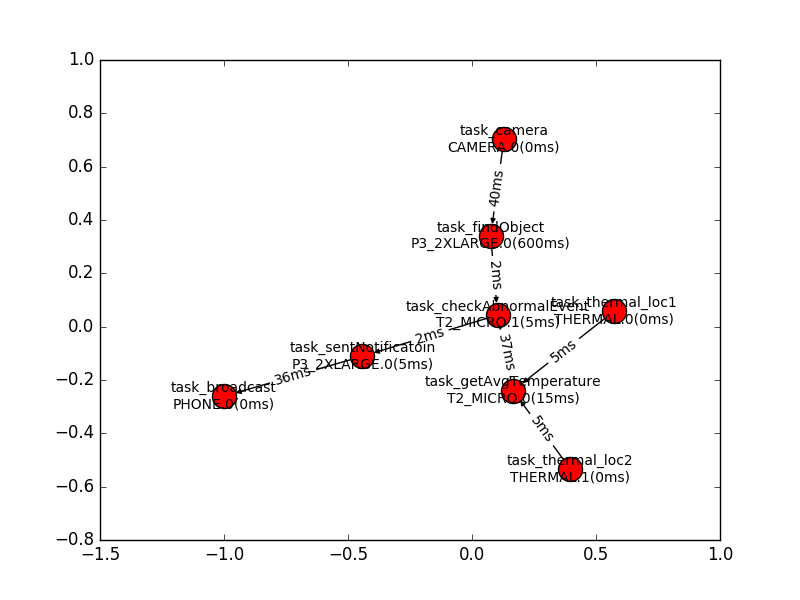
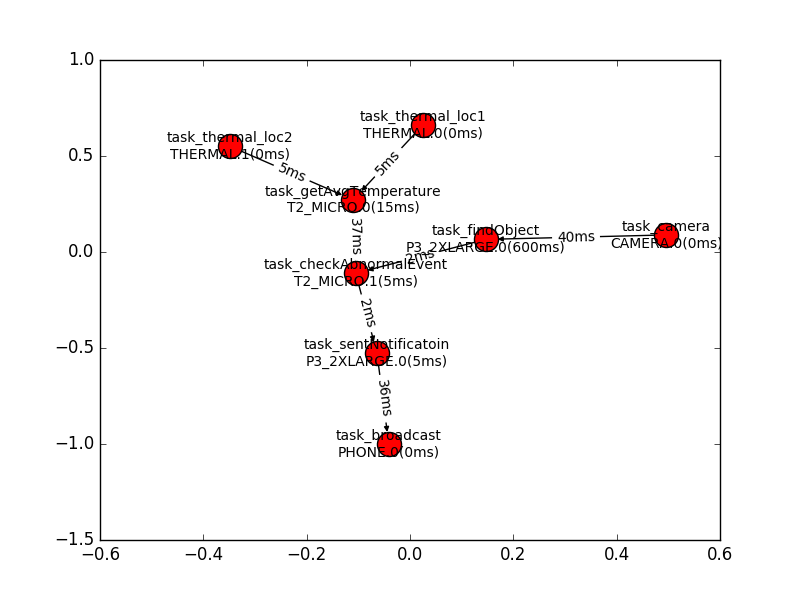
clean up

diff --git a/placethings/graph_gen/task_graph.py b/placethings/graph_gen/task_graph.py
@@ -4,11 +4,12 @@ from __future__ import print_function
 from __future__ import unicode_literals
 
 from copy import deepcopy
-from future.utils import iteritems
+from future.utils import listvalues, iteritems
 import logging
 
 from placethings.config import task_data
-from placethings.definition import GtInfo
+from placethings.config.common import LinkHelper
+from placethings.definition import GtInfo, GdInfo
 from placethings.graph_gen.graph_utils import GraphGen, FileHelper
 
 
@@ -55,3 +56,57 @@ def create_default_graph(is_export=False):
 def create_graph_from_file(filepath, is_export=False):
     task_mapping, task_links, task_info = task_data.import_data(filepath)
     return create_graph(task_mapping, task_links, task_info, is_export)
+
+
+def _gen_update_info(result_mapping, Gt, Gd):
+    node_info = {}
+    for task, device in iteritems(result_mapping):
+        if Gt.node[task][GtInfo.DEVICE]:
+            assert device == Gt.node[task][GtInfo.DEVICE]
+        Gt.node[task][GtInfo.DEVICE] = device
+        device_type = Gd.node[device][GdInfo.DEVICE_TYPE]
+        latency_info = Gt.node[task][GtInfo.LATENCY_INFO]
+        compute_latency = 0 if not latency_info else (
+            listvalues(latency_info[device_type])[0])
+        node_info[task] = {
+            GtInfo.CUR_DEVICE: device,
+            GtInfo.CUR_LATENCY: compute_latency,
+        }
+    edge_info = {}
+    for edge in Gt.edges():
+        t1, t2 = edge
+        d1 = node_info[t1][GtInfo.CUR_DEVICE]
+        d2 = node_info[t2][GtInfo.CUR_DEVICE]
+        transmission_latency = Gd[d1][d2][GdInfo.LATENCY]
+        edge_info[LinkHelper.get_edge(t1, t2)] = {
+            GtInfo.CUR_LATENCY: transmission_latency,
+        }
+    return node_info, edge_info
+
+
+def _gen_graph_labels(Gt):
+    node_labels = {}
+    for task in Gt.nodes():
+        node_labels[task] = '{}\n{}({}ms)'.format(
+            task,
+            Gt.node[task][GtInfo.CUR_DEVICE],
+            Gt.node[task][GtInfo.CUR_LATENCY])
+    edge_labels = {}
+    for edge in Gt.edges():
+        t1, t2 = edge
+        transmission_latency = Gt[t1][t2][GtInfo.CUR_LATENCY]
+        edge_labels[edge] = '{}ms'.format(transmission_latency)
+    return node_labels, edge_labels
+
+
+def update_graph(result_mapping, Gt, Gd, is_export):
+    node_info, edge_info = _gen_update_info(result_mapping, Gt, Gd)
+    Gt = GraphGen.update(node_info, edge_info, Gt)
+    if is_export:
+        node_labels, edge_labels = _gen_graph_labels(Gt)
+        FileHelper.export_graph(
+            Gt, 'task_graph_update',
+            with_edge=True, edge_label_dict=edge_labels,
+            node_label_dict=node_labels)
+        FileHelper.export_data(node_info, edge_info, 'task_graph_update')
+    return Gt

diff --git a/placethings/ilp_solver.py b/placethings/ilp_solver.py
@@ -5,14 +5,14 @@ from __future__ import unicode_literals
 
 from builtins import range
 from collections import defaultdict
-from future.utils import listvalues, iteritems
+from future.utils import listvalues
 import logging
 from itertools import izip as zip
 import pulp
 import networkx as nx
 
 from placethings.definition import Const, GdInfo, GtInfo, Hardware
-from placethings.graph_gen.graph_utils import FileHelper
+from placethings.graph_gen import task_graph
 
 
 log = logging.getLogger()
@@ -420,7 +420,7 @@ def _get_path_length(path, Gt, Gd, result_mapping):
     return path_length
 
 
-def place_things(target_latency, Gt, Gd):
+def place_things(target_latency, Gt, Gd, is_export):
     status, result_mapping = _solver(target_latency, Gt, Gd)
     log.info('solver status: {}'.format(pulp.LpStatus[status]))
     assert status == pulp.constants.LpStatusOptimal
@@ -432,24 +432,5 @@ def place_things(target_latency, Gt, Gd):
         max_latency = max(path_length, max_latency)
     log.info('max_latency={}'.format(max_latency))
     # update mapping and gen node labels
-    node_labels = {}
-    for task, device in iteritems(result_mapping):
-        if Gt.node[task][GtInfo.DEVICE]:
-            assert device == Gt.node[task][GtInfo.DEVICE]
-        Gt.node[task][GtInfo.DEVICE] = device
-        device_type = Gd.node[device][GdInfo.DEVICE_TYPE]
-        compute_latency = 0
-        latency_info = Gt.node[task][GtInfo.LATENCY_INFO]
-        if latency_info:
-            compute_latency = listvalues(latency_info[device_type])[0]
-        node_labels[task] = '{}\n{}({}ms)'.format(
-            task, device, compute_latency)
-    edge_labels = {}
-    for edge in Gt.edges():
-        t1, t2 = edge
-        d1, d2 = Gt.node[t1][GtInfo.DEVICE], Gt.node[t2][GtInfo.DEVICE]
-        transmission_latency = Gd[d1][d2][GdInfo.LATENCY]
-        edge_labels[edge] = '{}ms'.format(transmission_latency)
-    FileHelper.export_graph(
-        Gt, 'result', with_edge=True,
-        edge_label_dict=edge_labels, node_label_dict=node_labels)
+    Gt = task_graph.update_graph(result_mapping, Gt, Gd, is_export)
+    return Gt

diff --git a/placethings/config/spec_def.py b/placethings/config/spec_def.py
@@ -6,7 +6,6 @@ from __future__ import unicode_literals
 from placethings.definition import (
     Const, Device, DeviceCategory, GdInfo, Hardware, LinkInfo, LinkType,
     NwDevice, NwDeviceCategory, NwLink, Unit)
-from placethings.utils import common_utils, json_utils
 
 
 NW_DEVICE_SPEC = {
@@ -49,7 +48,7 @@ NW_DEVICE_SPEC = {
                 LinkInfo.DLINK_BW: Const.INT_MAX,
             },
         },
-        NwDevice.BASESTATION: {
+        NwDevice.BB_AP: {
             LinkType.WAN: {
                 LinkInfo.PROTOCOL: NwLink.ETHERNET,
                 LinkInfo.N_LINKS: 1,
@@ -57,7 +56,7 @@ NW_DEVICE_SPEC = {
                 LinkInfo.DLINK_BW: Const.INT_MAX,
             },
             LinkType.LAN: {
-                LinkInfo.PROTOCOL: NwLink.LTE_CAT4,
+                LinkInfo.PROTOCOL: NwLink.WIFI,
                 LinkInfo.N_LINKS: Const.INT_MAX,
                 LinkInfo.ULINK_BW: Unit.mbps(150),
                 LinkInfo.DLINK_BW: Unit.mbps(50),
@@ -89,7 +88,7 @@ DEVICE_SPEC = {
             GdInfo.COST: Unit.rph(0),
             GdInfo.HARDWARE: {},
             GdInfo.NIC: {
-                LinkInfo.PROTOCOL: NwLink.LTE_CAT4,
+                LinkInfo.PROTOCOL: NwLink.WIFI,
                 LinkInfo.N_LINKS: 1,
                 LinkInfo.ULINK_BW: Unit.mbps(50),
                 LinkInfo.DLINK_BW: Unit.mbps(150),

diff --git a/placethings/config/default_def.py b/placethings/config/default_def.py
@@ -15,7 +15,7 @@ NW_DEVICE_INVENTORY = {
     },
     NwDeviceCategory.BACKBONE: {
         NwDevice.BB_SWITCH: 1,
-        NwDevice.BASESTATION: 1,
+        NwDevice.BB_AP: 1,
     },
     NwDeviceCategory.CLOUD: {
         NwDevice.CLOUD_SWITCH: 1,
@@ -45,12 +45,12 @@ NW_LINKS = {
         GnInfo.DST_LINK_TYPE: LinkType.WAN,
         GnInfo.LATENCY: Unit.ms(20),
     },
-    'BASESTATION.0 -> BB_SWITCH.0': {
+    'BB_AP.0 -> BB_SWITCH.0': {
         GnInfo.SRC_LINK_TYPE: LinkType.WAN,
         GnInfo.DST_LINK_TYPE: LinkType.ANY,
         GnInfo.LATENCY: Unit.ms(10),
     },
-    'BB_SWITCH.0 -> BASESTATION.0': {
+    'BB_SWITCH.0 -> BB_AP.0': {
         GnInfo.SRC_LINK_TYPE: LinkType.ANY,
         GnInfo.DST_LINK_TYPE: LinkType.WAN,
         GnInfo.LATENCY: Unit.ms(10),
@@ -125,10 +125,10 @@ DEVICE_LINKS = {
     'CLOUD_SWITCH.0 -> P3_2XLARGE.0': {
         GnInfo.LATENCY: Unit.ms(1),
     },
-    'PHONE.0 -> BASESTATION.0': {
+    'PHONE.0 -> BB_AP.0': {
         GnInfo.LATENCY: Unit.ms(10),
     },
-    'BASESTATION.0 -> PHONE.0': {
+    'BB_AP.0 -> PHONE.0': {
         GnInfo.LATENCY: Unit.ms(10),
     },
 }

diff --git a/placethings/graph_gen/graph_utils.py b/placethings/graph_gen/graph_utils.py
@@ -36,13 +36,26 @@ class GraphGen(object):
             base_graph.add_edge(src_node, dst_node, **attr)
         return base_graph
 
+    @classmethod
+    def update(cls, node_info, edge_info, base_graph):
+        """
+        Args:
+            task_info (dict)
+            edge_info (dict)
+            graph (networkx.DiGraph): the base graph to add nodes / edges
+        Returns:
+            graph (networkx.DiGraph)
+        """
+        assert base_graph is not None
+        return cls.create(node_info, edge_info, base_graph=base_graph)
+
 
 class FileHelper(object):
     _FILES = {
         'topo_graph',
         'device_graph',
         'task_graph',
-        'result',
+        'task_graph_update',
     }
     OUTPUT_FOLDER = 'output'
 

diff --git a/placethings/definition.py b/placethings/definition.py
@@ -37,7 +37,6 @@ class Const:
 class NwLink(Enum):
     ETHERNET = auto()
     WIFI = auto()
-    LTE_CAT4 = auto()
 
 
 class LinkInfo(Enum):
@@ -59,7 +58,7 @@ class NwDevice(Enum):
     HOME_IOTGW = auto()
     # backbone
     BB_SWITCH = auto()
-    BASESTATION = auto()
+    BB_AP = auto()
     # third_party
     CLOUD_SWITCH = auto()
 
@@ -98,7 +97,10 @@ class GtInfo(object):
         TRAFFIC = auto()
         LATENCY_INFO = auto()
         RESRC_RQMT = auto()
-        DEVICE = auto()
+        DEVICE = auto()  # initial assigned
+        # assign on the fly
+        CUR_DEVICE = auto()
+        CUR_LATENCY = auto()
 
     class helper(type):
         # used as keys for **kwargs for networkx.Digraph.add_node

diff --git a/placethings/config/common.py b/placethings/config/common.py
@@ -66,21 +66,6 @@ class LinkHelper(object):
         return src, dst
 
 
-class SetManager(object):
-    def __init__(self, dataset):
-        self._dataset = dataset
-
-    def __contains__(self, item):
-        return item in self._dataset
-
-    def get(self, data):
-        assert data in self._dataset
-        return data
-
-    def get_set(self):
-        return self._dataset
-
-
 class InventoryManager(object):
 
     def __init__(self, inventory, spec=None):

diff --git a/main.py b/main.py
@@ -93,7 +93,7 @@ class FuncManager(object):
         is_export = args.is_export
         Gt = graph_factory.gen_task_graph(config_name, is_export)
         Gd = graph_factory.gen_device_graph(config_name, is_export)
-        ilp_solver.place_things(Unit.sec(2), Gt, Gd)
+        ilp_solver.place_things(Unit.sec(2), Gt, Gd, is_export)
 
     @staticmethod
     def export_default_config(args):
